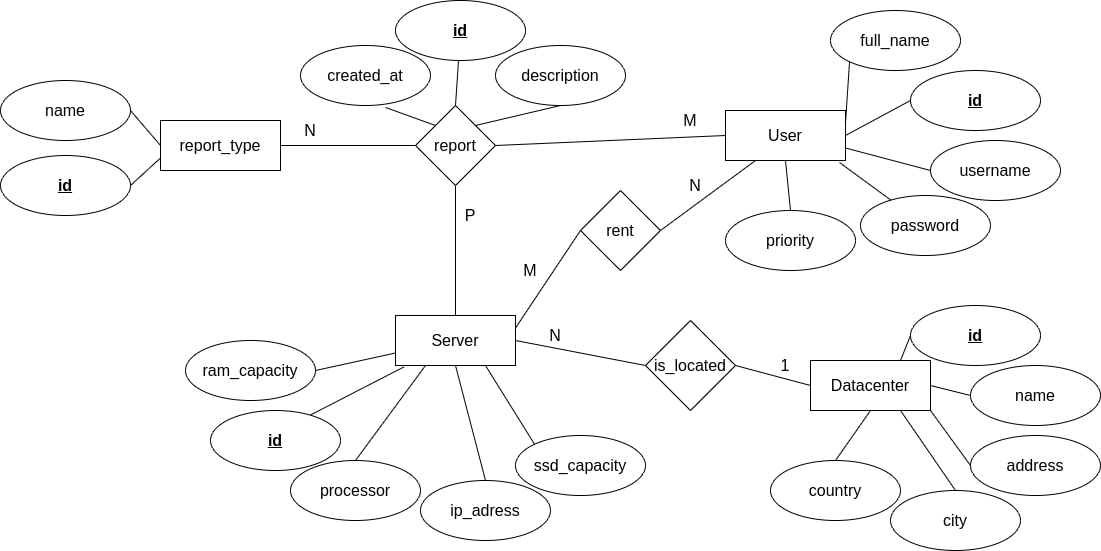
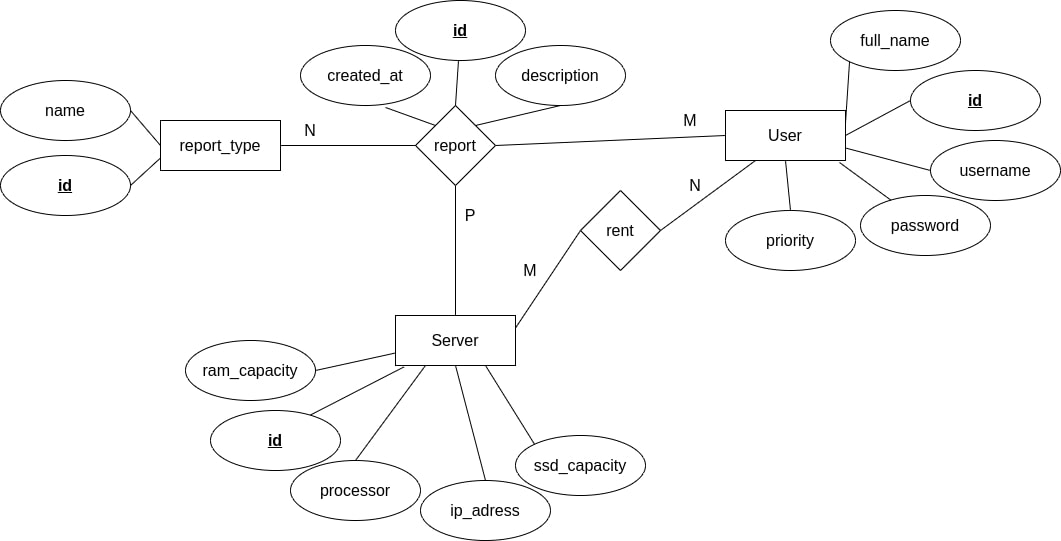
Izmenjen README

diff --git a/README.md b/README.md
@@ -2,19 +2,21 @@
 
 ## O projektu
 
-Hosting panel omogućava korisnicima koji koriste usluge hostinga na jednostavni način "zakupe" server hostinga kao i da naprave report-ova (vrsta usluge kojima korisnik obaveštava hosting na probleme na koje je naišao)
+Hosting panel omogućava korisnicima koji koriste usluge hostinga da na jednostavni način "zakupe" server hostinga kao i da dodaju report (vrsta usluge kojima korisnik obaveštava hosting na probleme na koje je naišao)
 
 ## Funkcionalnost web aplikacije
 
 - Postoje dve vrste korisnika: korisnik usluga i admin
 
-- Korisnik usluga može da zakupi server birajući datacentar i na osnovu datacentra bira server koji želi
+- Korisnik usluga može da zakupi server
 
-- Korisnik usluga može da dostavi izveštaj/report hostingu i na taj način obavesti o problemima na istom, kao i da isti izbriše i izmeni
+- Korisnik usluga može da dostavi izveštaj/report hostingu i na taj način obavesti o problemima na istom. Takođe, report može da izbriše i izmeni
 
-- Admin može dodavati, brisati, menjati datacentre i servere za određeni datacentar
+- Admin može dodavati, brisati, menjati servere, kao i da obriše iste
 
-- Admin grafičkim prikazom ima uvid u statistiku problema za svaki datacentar (izlistani svi serveri sa brojem prijava/problema) kao i broj problema na osnovu tipa problema/reporta
+- Admin takođe može report da označi kao rešen (podrazumevano je da nije rešen)
+
+- Admin grafičkim prikazom ima uvid u broj problema na osnovu tipa problema/reporta
 
 ## Izgled ER dijagrama baze podataka
 
